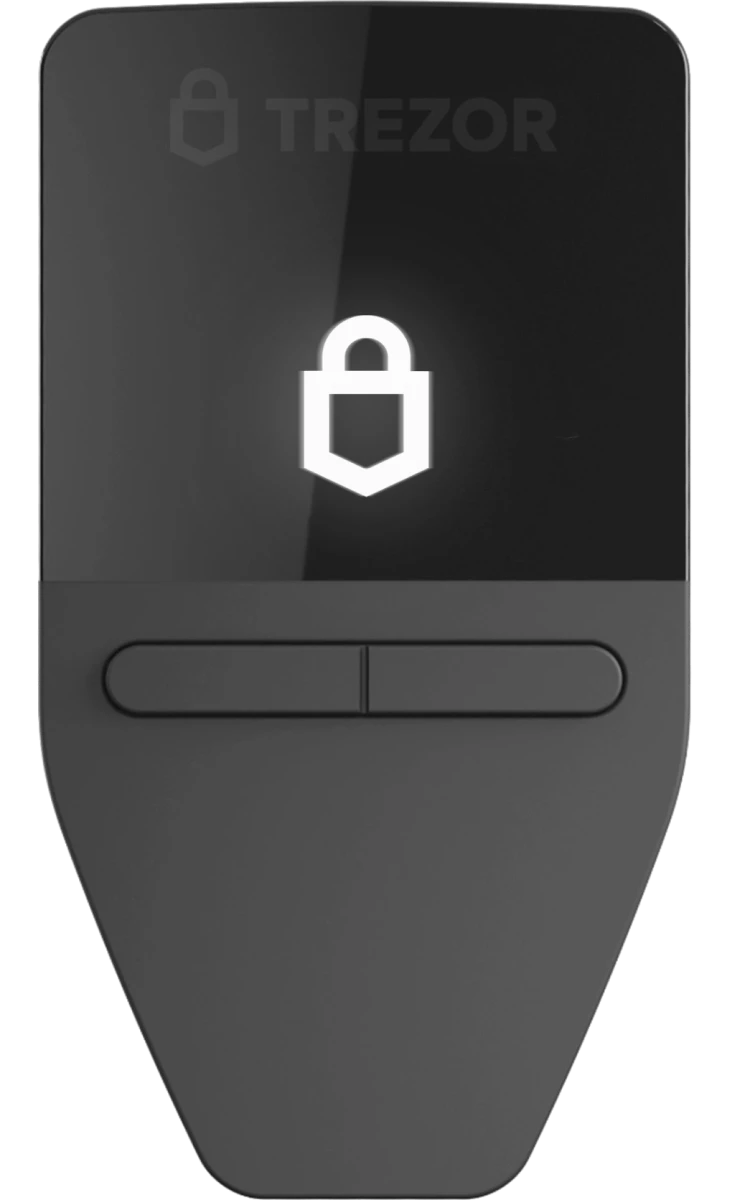
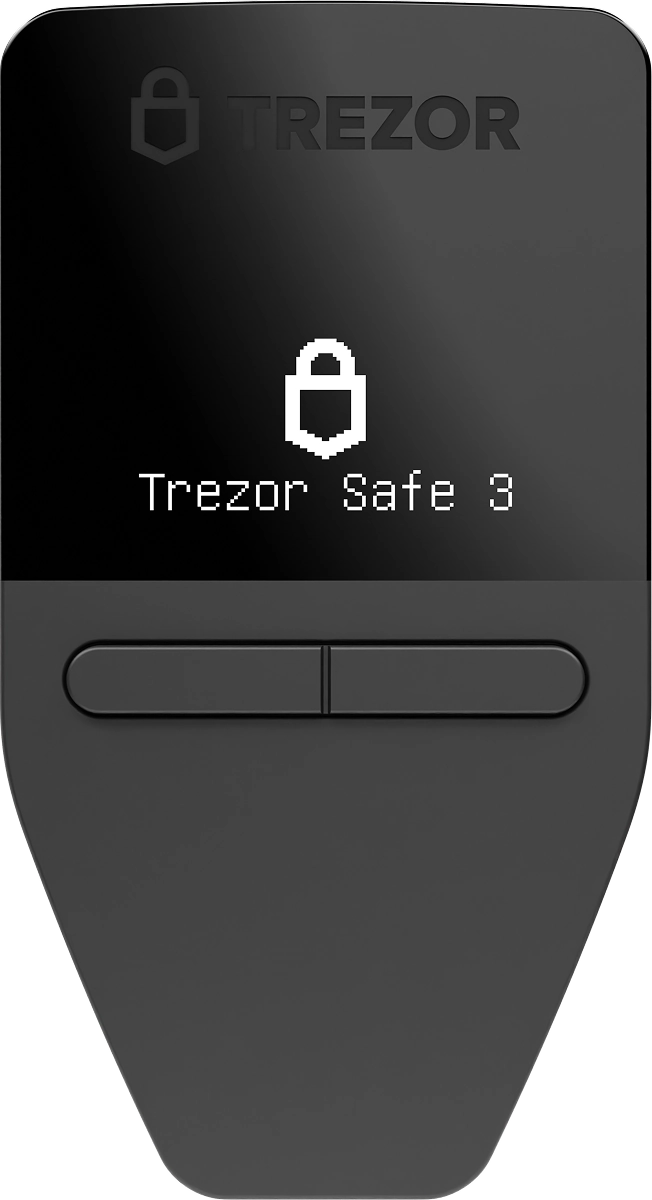
chore(suite-native): update device renders

diff --git a/suite-native/device/src/components/DeviceImage.tsx b/suite-native/device/src/components/DeviceImage.tsx
@@ -13,25 +13,16 @@ const deviceImageMap: Record<DeviceModelInternal, string> = {
 };
 
 type DeviceImageSize = 'normal' | 'large';
-type DeviceImageDimensions = {
-    width: number;
-    height: number;
-};
 
-export const sizeToDimensionsMap = {
-    normal: {
-        width: 92,
-        height: 151,
-    },
-    large: {
-        width: 243,
-        height: 400,
-    },
-} as const satisfies Record<DeviceImageSize, DeviceImageDimensions>;
+export const sizeToHeightMap = {
+    normal: 151,
+    large: 400,
+} as const satisfies Record<DeviceImageSize, number>;
 
 const imageStyle = prepareNativeStyle<{ size: DeviceImageSize; maxHeight?: number }>(
     (_, { size, maxHeight }) => ({
-        ...sizeToDimensionsMap[size],
+        width: '100%',
+        height: sizeToHeightMap[size],
         maxHeight,
         contentFit: 'contain',
     }),
